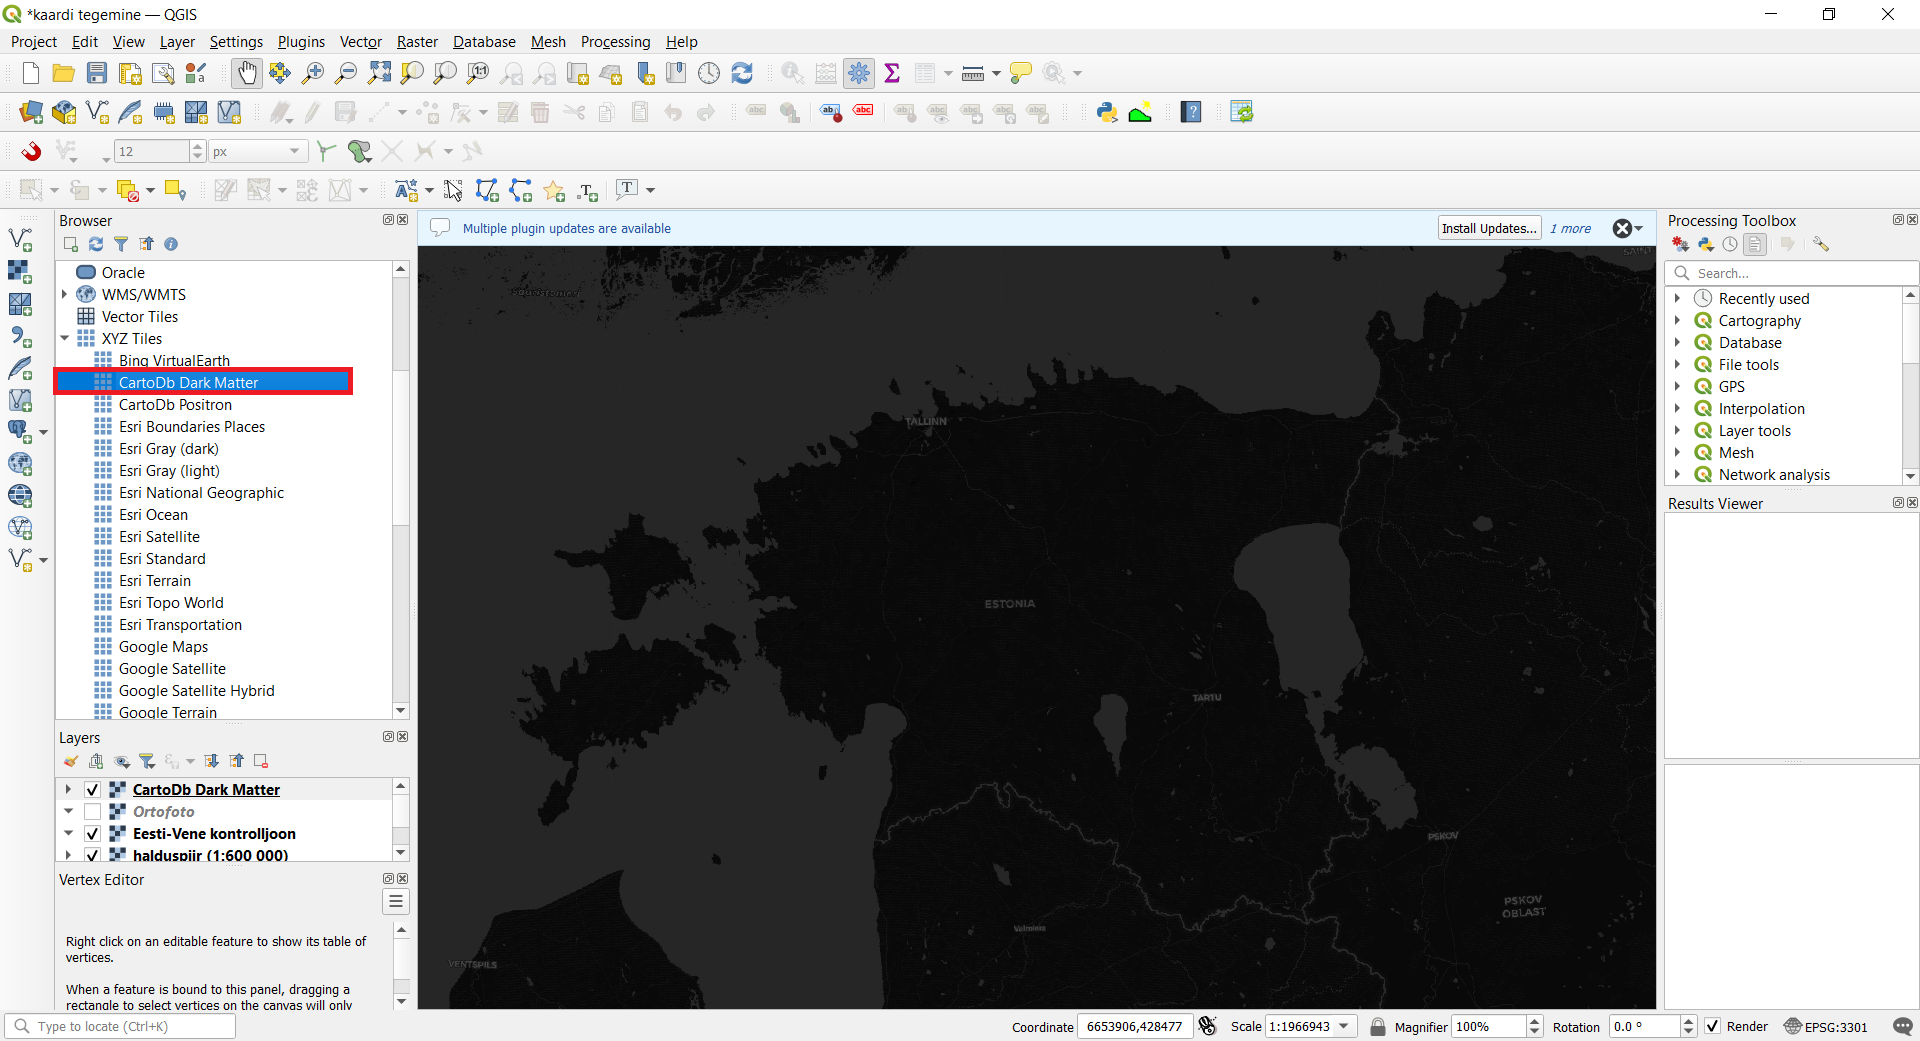
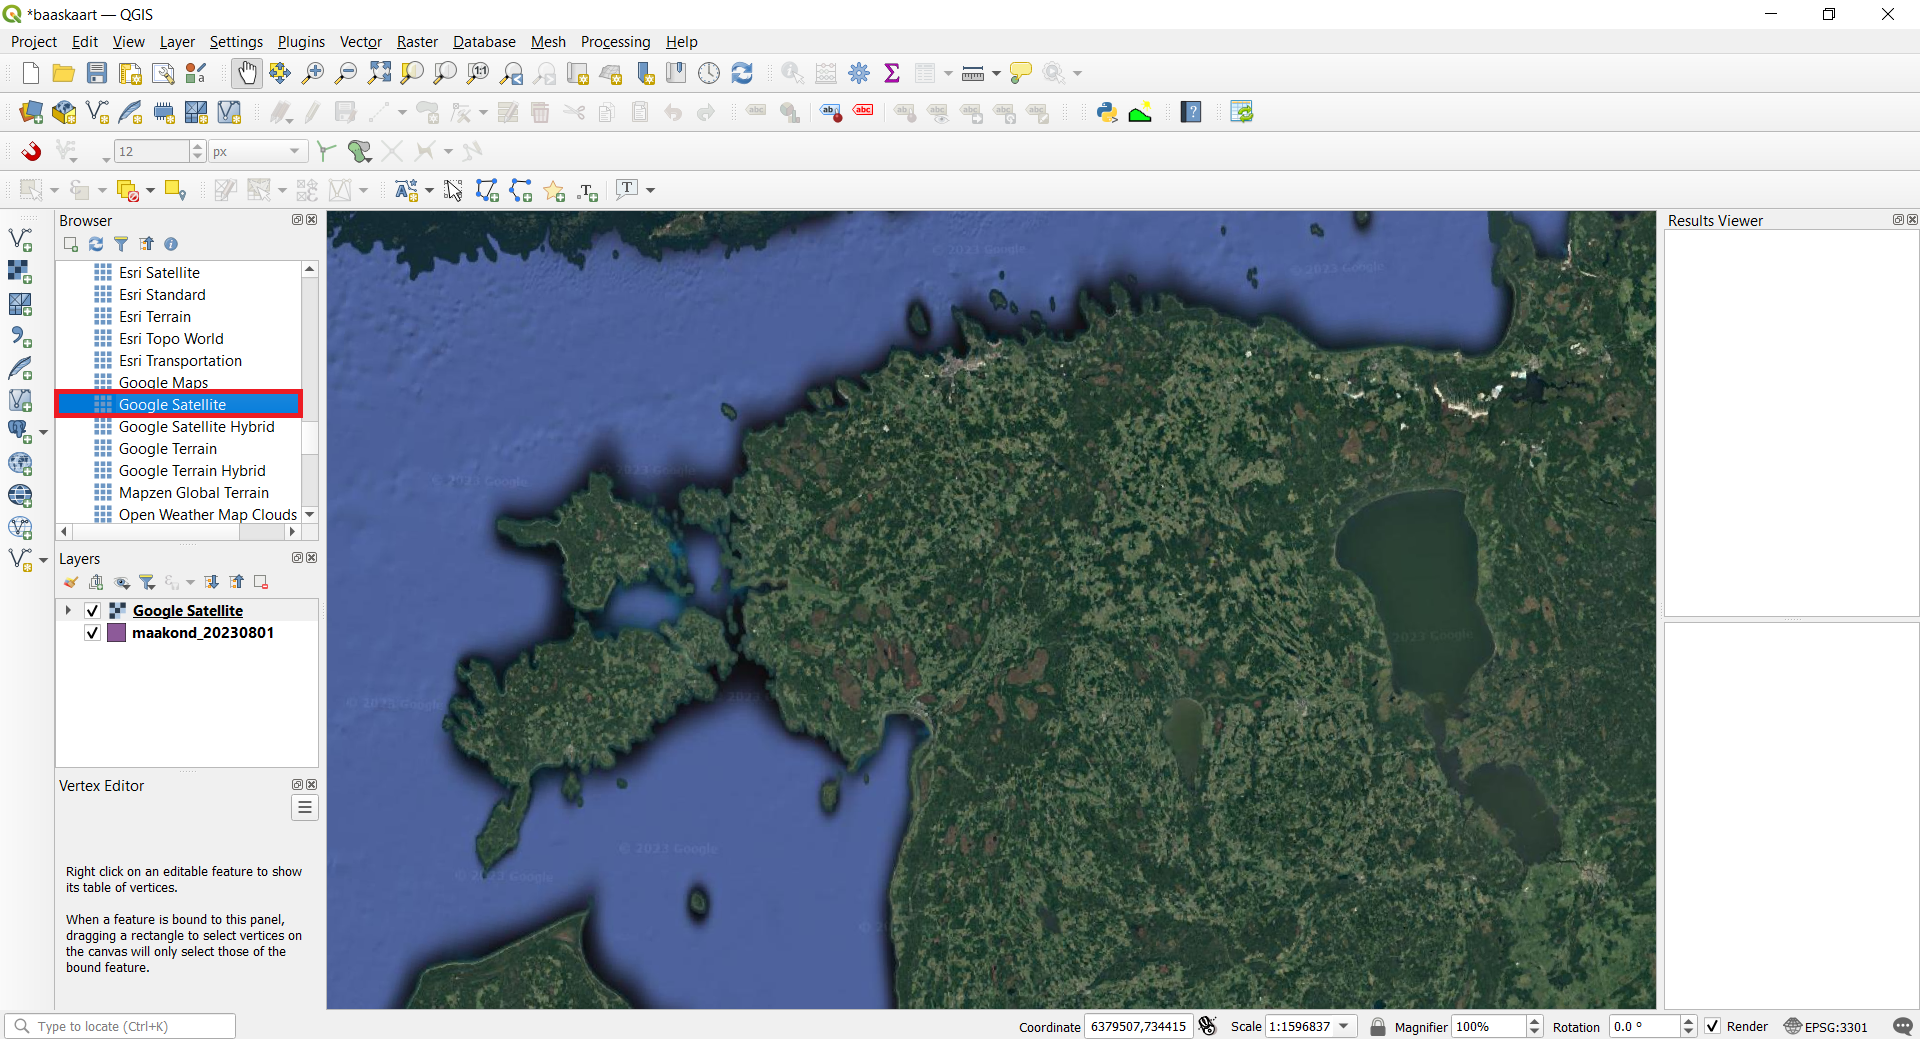
kaardi tegemise tõlke muutused baaskaardi osas

diff --git a/_posts/qgis/2024-07-11-making-a-map-est.md b/_posts/qgis/2024-07-11-making-a-map-est.md
@@ -97,12 +97,19 @@ Antud ülesandes kasutame [<span style="color:#0564A0">Maa-ameti WMS-teenust</sp
 ![image of final map](../../images/e2_final_map.png)
 
 #### 2.6. Baaskaartide lisamine
-3. Lisaks õpime kuidas kaardile lisada baaskaart. Mõnikord on praktiline kasutada juba stiliseeritud baaskaarte selle asemel, et ise baaskaart kujundada. [<span style="color:#0564A0">Klas Karlsson'il</span>](https://github.com/klakar) on hea kollektsioon erinevatest baaskaartidest, mille lisamiseks on vaja vaid QGIS-is käivitada antud Python skript. Ava Github-ist [<span style="color:#0564A0">qgis_basemaps.py</span>](https://github.com/klakar/QGIS_resources/blob/master/collections/Geosupportsystem/python/qgis_basemaps.py) ja kopeeri (`Crtl+C`) skript alates reast # Sources.
+3. Lisaks õpime kuidas kaardile lisada baaskaart. Kõigepealt laadige [<span style="color:#0564A0">Maa-ameti/span>](https://geoportaal.maaamet.ee/est/Ruumiandmed/Haldus-ja-asustusjaotus-p119.html) leheküljelt alla fail <span style="font-family:Consolas; color:#AF1B03">Maakonnad SHP</span> ning pakkige failid lahti oma töökausta. 
+**Andmete allikad:** [<span style="color:#0564A0">Klas Karlsson'i/span>](https://github.com/klakar) baaskaardid ja [<span style="color:#0564A0">Maa-ameti/span>](https://geoportaal.maaamet.ee/est/Ruumiandmed/Haldus-ja-asustusjaotus-p119.html) Eesti maakonnad.
+4. Avage QGIS-is uus projekt. Lisage kaardile kiht <span style="font-family:Consolas; color:#AF1B03">maakond_20230801.shp</span> ja salvestage projekt sobiva nimega.
+![image of add maakonnad](../../images/e2_add_maakonnad.png)
+5. Mõnikord on praktiline kasutada juba stiliseeritud baaskaarte selle asemel, et ise baaskaart kujundada. [<span style="color:#0564A0">Klas Karlsson'il</span>](https://github.com/klakar) on hea kollektsioon erinevatest baaskaartidest, mille lisamiseks on vaja vaid QGIS-is käivitada antud Python skript. Ava Github-ist [<span style="color:#0564A0">qgis_basemaps.py</span>](https://github.com/klakar/QGIS_resources/blob/master/collections/Geosupportsystem/python/qgis_basemaps.py) ja kopeeri (`Crtl+C`) skript alates reast # Sources.
 ![image](../../images/5_select script.png)
-4. Mine tagasi QGIS-i ja ava *Python Console*. Selleks vajuta *toolbar*-il ![image](../../images/icon_python console.png). *Python Console* avaneb *Map view* all. Kleebi skript ning vajuta klaviatuuril Enter. Peale seda võite *Python Console*-i sulgeda. 
+6. Mine tagasi QGIS-i ja ava *Python Console*. Selleks vajuta *toolbar*-il ![image](../../images/icon_python console.png). *Python Console* avaneb *Map view* all. Kleebi skript ning vajuta klaviatuuril Enter. Peale seda võite *Python Console*-i sulgeda. 
 ![image](../../images/e2_paste_script.png)
-5. *Browser Panel*-is tekkisid *XYZ titels* alla paljud uued kihid. Need on lisatud baaskaardid. Proovime neist mõnda. Tee topeltklõps kihil CartoDb Dark Matter. See lisab baaskaardi *map view*-sse. Proovi näiteks ka baaskarti Google Satellite või lõbusat Stamen Watercolour. Proovi ka teisi baaskaarte. 
-![image](../../images/e2_add_base_map_layers.png) 
+7. *Browser Panel*-is tekkisid *XYZ titels* alla paljud uued kihid. Need on lisatud baaskaardid. Proovime neist mõnda. Tee topeltklõps kihil CartoDb Dark Matter. See lisab baaskaardi *map view*-sse. Proovi näiteks ka baaskarti Google Satellite või lõbusat Stamen Watercolour. Lõpuks jäta kaardile vaid Google Satellite. 
+![image](../../images/e2_add_base_map_layers.png)
+8. Suurenda ekraanile Euroopa. Kuna tahame teha Euroopa kaardi, kus oleks näidatud Eesti piirjooned. Kuna tahame teha Euroopa kaardi, kus on näidatud Eesti piirjooned, peame muutma ka projekti koordinaatsüsteemi. Tee hiireklõps *status bar*-i alumises paremas nurgas asuval tekstil EPSG:3301. *Filter* kõrval asuvasse kasti kirjutage 3035. See toob esile mitmed koordinaatsüsteemid, aga valige EPSG:3035 ning vajutage OK.
+![image](../../images/e2_change_CRS.png)
+9. Kujunda kaart *Project Layout-is* eelnevalt läbitud juhendi abil. Kaardil peaks olema pealkiri, mõõtkava ja autor.
 
 [^1]: EPSG Geodetic Parameter Dataset (lühidalt EPSG registry) on geodeetiliste andmete, ruumiliste referentssüsteemide, Maa ellipsoidide ning koordinaatide teisenduste ja sellega seotud mõõtühikute avalik register. Igale üksusele on määratud kood vahemikus 1024-32767 koos standardse masinloetava tekstiga (*well-known text*). (Wiki) EPSG koodid on ainulaadsed ja väga kasulikud, kui soovid GIS programmis otsida ja tuvastada koordinaatsüsteeme.
 [^2]: Väljalõikekaart on põhikaardil asuv väiksem kaart. (GIS Wiki)
